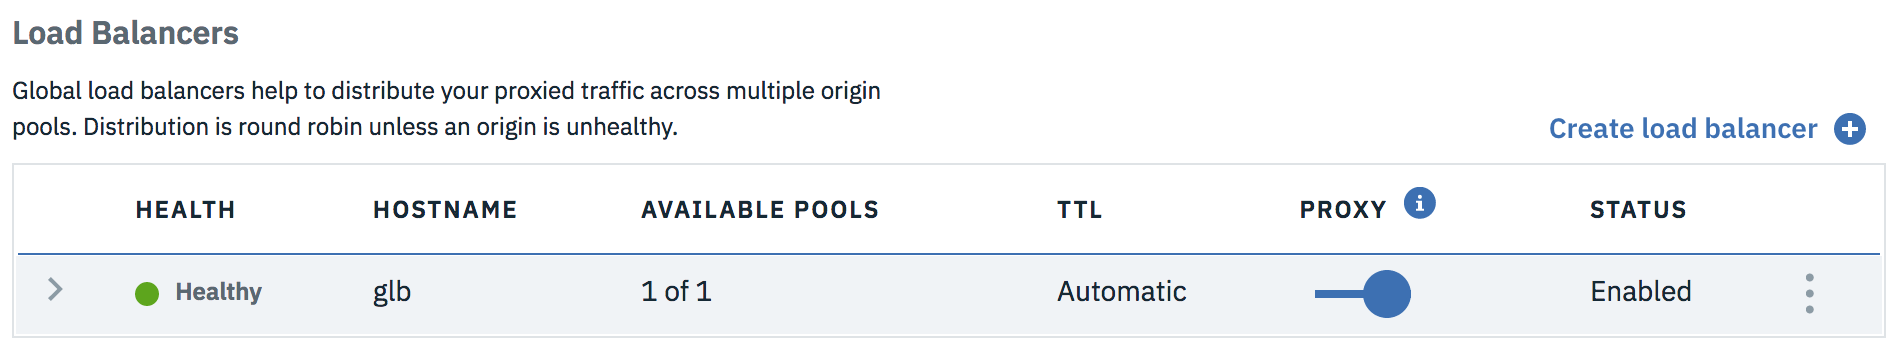
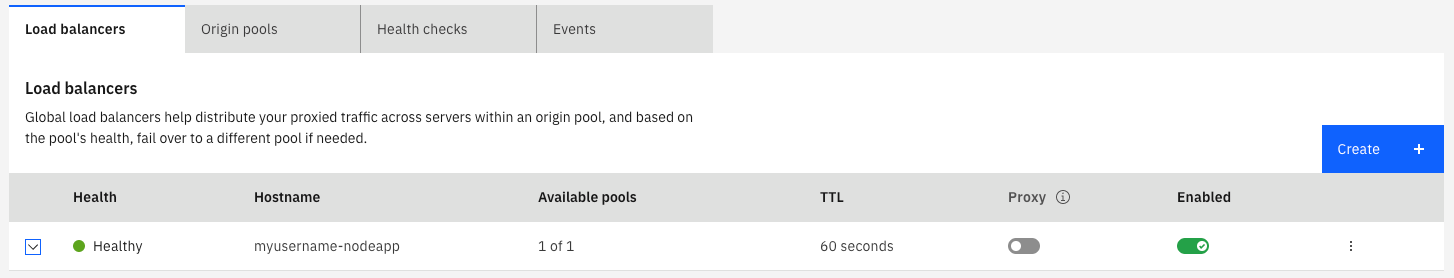
2020 fall review - 1

diff --git a/multi-region-webapp.md b/multi-region-webapp.md
@@ -2,7 +2,7 @@
 subcollection: solution-tutorials
 copyright:
   years: 2017, 2019
-lastupdated: "2019-11-18"
+lastupdated: "2020-11-23"
 lasttested: "2019-05-20"
 
 content-type: tutorial
@@ -55,15 +55,20 @@ This tutorial involves an active/active scenario where two copies of the applica
 {: #multi-region-webapp-create}
 {: step}
 
-Start by creating a Node.js starter application that runs in a Cloud Foundry environment.
+Start by creating a **SDK for Node.js** starter application that runs in a Cloud Foundry environment.
 
 1. In the [**Catalog**](https://{DomainName}/catalog/), under the [**Compute**](https://{DomainName}/catalog?category=compute) category, select [**Cloud Foundry**](https://{DomainName}/cloudfoundry/overview), Select [**Public Applications**](https://{DomainName}/catalog/starters/cloud-foundry?runtime=sdk-for-nodejs) and choose the **{{site.data.keyword.runtime_nodejs_notm}}** runtime.
-3. Enter a **unique name** for your application, which will also be your host name, for example: myusername-nodeapp. And click **Create**.
-4.  After the application starts, click the **Visit URL** link on the **Overview** page to see your application in a new tab.
+3. Verify **SDK for Node.js** is checked.
+3. **Select a region**.  **Dallas**, us-south, is expected for the text below but any region will work if you make the appropriate substitutions.
+3. Enter a **unique name** for your application. Notice host name filled identically. for example: myusername-nodeapp.
+3. Take note of the IBM **Domain** selected.  The default for  the **Dallas** region is **us-south.cf.appdomain.cloud**.
+3. Select a **Organization** and **Space**.  The space will be named after the region: **myaccount-org** (Organization) / **us-south** (Space).  A second space will be needed in a future step.
+3. And click **Create**.
+4. After the application starts, click the **Visit URL** link on the **Overview** page to see your application in a new tab.
 
 ![HelloWorld](images/solution1/HelloWorld.png)
 
-Great start! You have your very own Node.js starter application running in {{site.data.keyword.Bluemix_notm}}.
+Great start! You have your very own Node.js starter application running in {{site.data.keyword.Bluemix_notm}}
 
 Next, let's push the source code of your application to a repository and deploy your changes automatically.
 
@@ -73,12 +78,10 @@ Next, let's push the source code of your application to a repository and deploy 
 
 In this step, you set up a git source control repository to store your code and then create a pipeline, which deploys any code changes automatically.
 
-1. On the left pane of your application you just created, select **Overview** and scroll to find **{{site.data.keyword.contdelivery_short}}**. Click **Enable**.
-
-   ![HelloWorld](images/solution1/Enable_Continuous_Delivery.png)
-2. Keep the default options and click **Create**. You should now have a default **toolchain** created.
-
-   ![HelloWorld](images/solution1/DevOps_Toolchain.png)
+1. On the left pane of your application you just created, select **Overview** and scroll to find **{{site.data.keyword.contdelivery_short}}**. Click **Enable Continuous Delivery**.
+2. Keep the default options in the **Git Repos and Issue Tracking** panel.
+3. Click the **Delivery Pipeline** panel and choose **New** to create a API key with full access and click **OK** or follow the instructions to create or use a specific API key.
+3. Click **Create**. You should now have a default **toolchain** created.
 3. Select the **Git** tile under **Code**. You're then directed to your git repository page.
 4. If you haven't set up SSH keys yet, you should see a notification bar at the top with instructions. Follow the steps by opening the **add an SSH key** link in a new tab or if you want to use HTTPS instead of SSH, follow the steps by clicking  **create a personal access token**. Remember to save the key or token for future reference.
 5. Select SSH or HTTPS and copy the git URL. Clone the source to your local machine.
@@ -103,7 +106,7 @@ In this step, you set up a git source control repository to store your code and 
 10. Confirm that you see the **BUILD** and **DEPLOY** stages.
   ![HelloWorld](images/solution1/DevOps_Pipeline.png)
 11. Wait for the **DEPLOY** stage to complete.
-12. Click the application **url** under Last Execution result to view your changes live.
+12. Click the **View console** to open the application under **Last execution result** to visit the application.  In the Cloud Foundry application click on **Visit app URL** to see the app and changes.
 
 Continue making further changes to your application and periodically commit your changes to your git repository. If you don't see your application updating, check the logs of the DEPLOY and BUILD stages of your pipeline.
 
@@ -116,16 +119,31 @@ Next, we will deploy the same application to a different {{site.data.keyword.Blu
 1. Navigate to Application **Overview** and scroll to find **View toolchain**.
 2. Select **Delivery Pipeline** from Deliver.
 3. Click the **Gear icon** on the **DEPLOY** stage and select **Clone Stage**.
-   ![HelloWorld](images/solution1/CloneStage.png)
 4. Rename stage to "Deploy to UK" and select **JOBS**.
-5. Change **IBM Cloud region** to **London - https://api.eu-gb.bluemix.net**. Create a **space** if you don't have one.
+5. Change **IBM Cloud region** to **London - https://api.eu-gb.cf.cloud.ibm.com**. Create a **space** named eu-gb if you don't have one.
 7. Click **Save** and run the new stage by clicking the **Play button**.
+7. Navigate via **View console** to see the application and **Visit app URL**.  The **Details** tab of the application will provide a rouote in the format <hostname>.<domain>.  Verify your two applications look something like this:
+
+You can edit the routes to have similar domains from the application page by using the **Actions > Edit routes**.  Make note of this information in a table like the following.
+
+
+|Host name|Domain|Organization|Space|
+|--|--|--|--|
+|myusername-nodeapp|us-south.cf.appdomain.cloud|myaccount-org|us-south|
+|myusername-nodeapp|eu-gb.mybluemix.net|myaccount-org|eu-gb|
+
+The **Host name** is the initial part of the DNS subdomain shown on the **Details** panel under the **Routes** section.  Verify you can visit each applications in the browser using `<Host name>.<Domain>`: https://myusername-nodeapp.us-south.cf.appdomain.cloud,  https://myusername-nodeapp.eu-gb.mybluemix.net
+When you see the contents of this table used your values.
+  
+
+The host name will default to the application name but if that does not provide a unique route to the application a more random string will be generated and must be noted in your copy of the table above.
+{:tip}
 
 ## Register a custom domain with {{site.data.keyword.cis_full_notm}}
 {: #multi-region-webapp-domain_cis}
 {: step}
 
-[{{site.data.keyword.cis_full_notm}}](https://{DomainName}/docs/cis?topic=cis-getting-started) is a uniform platform to configure and manage the Domain Name System (DNS), Global Load Balancing (GLB), Web Application Firewall (WAF), and protection against Distributed Denial of Service (DDoS) for web applications. It provides a fast, highly performant, reliable, and secure internet service for customers running their business on IBM Cloud with three main capabilities to enhance your workflow: security, reliability, and performance.
+[{{site.data.keyword.cis_full_notm}}](https://{DomainName}/docs/cis?topic=cis-getting-started) is a simple set of edge network services for clients looking to secure their internet-facing applications from DDoS attacks, data theft and bot attacks, and for those clients needing to optimize their web applications, or ensure global responsiveness and the ongoing availability of their internet-facing applications.
 
 When deploying a real world application, you will likely want to use your own domain instead of the IBM-provided domain (_mybluemix.net_). In this step, after you have a custom domain, you can use the DNS servers provided by {{site.data.keyword.cis_full_notm}}.
 
@@ -144,35 +162,51 @@ When deploying a real world application, you will likely want to use your own do
 
 {: #add_glb}
 
-In this section, you will use the Global Load Balancer (GLB) in {{site.data.keyword.cis_full_notm}} to manage the traffic across multiple locations. The GLB utilizes a origin pool which allows for the traffic to be distributed to multiple origins.
+In this section, you will use the Global Load Balancer (GLB) in {{site.data.keyword.cis_full_notm}} to manage the traffic across multiple locations. The GLB utilizes a origin pool which allows for the traffic to be distributed to multiple origins based on health checks.
 
-### Before creating a GLB, create a health check for the GLB.
+### Create a health check for the GLB.
 {: #multi-region-webapp-6}
 
-1. In the {{site.data.keyword.cis_full_notm}} application, navigate to **Reliability** > **Global Load Balancer**, and at the bottom of the page, click **Create health check**.
-2. Enter the path that you want to monitor, for example, `/`, and select a type (HTTP or HTTPS). Typically you can create a dedicated health endpoint. Click **Provision 1 Resource**.
-   ![Health Check](images/solution1/health_check.png)
+1. In the {{site.data.keyword.cis_full_notm}} application, navigate to **Reliability** > **Global Load Balancer**.
+1. Select **Health checks** and click **Create**.
+2. Enter a name, HTTPS, `/` for the path.  In your real application you can create a dedicated health endpoint that evaluates the application health and returns the status. Click **Create**.
 
-### After that, create an origin pool with two origins.
+### Create an origin pool with two origins.
 {: #multi-region-webapp-7}
 
-1. Click **Create Pool**.
-2. Enter a name for the pool, select the health check that you've just created, and a region that is close to the location of your node.js application.
-3. Enter a name for the first origin and the host name for the application in Dallas `<your_app>.mybluemix.net`.
-4. Similarly, add another origin with the origin address pointing to the application in London `<your_app>.eu-gb.mybluemix.net`.
-5. Click **Provision 1 Resource**.
+The two applications look something like this:
+
+|Host name|Domain|Organization|Space|
+|--|--|--|--|
+|myusername-nodeapp|us-south.cf.appdomain.cloud|myaccount-org|us-south|
+|myusername-nodeapp|eu-gb.mybluemix.net|myaccount-org|eu-gb|
+
+
+1. Select **Origin pools** and click **Create**.
+2. Enter a name for the pool: myusername-nodeapp.
+3. Enter a name for the first origin, **us-south**, and the full subdomain of the application in Dallas: `<myusername-nodeapp>.us-south.cf.appdomain.cloud`.
+4. Similarly, add another origin, **eu-gb**,  with the full subdomain of the application in London: `<myusername-nodeapp>.eu-gb.mybluemix.net`.
+4. Select a **Health check region** close to the location of one of your applications.
+4. Select the **Health check** created earlier.
+5. Click **Save**.
    ![Origin Pool](images/solution1/origin_pool.png)
+
+You may need to wait for the health checks to complete and refresh in the browser to see a Healthy status.
+{:tip}
 
 ### Create a Global Load Balancer (GLB).
 {: #multi-region-webapp-8}
 
-1. Click **Create Load Balancer**.
-2. Enter a name for the Global Load Balancer. This name will also be part of your universal application URL (`http://<glb_name>.<your_domain_name>`), regardless of the location.
-3. Click **Add pool** and select the origin pool that you have just created.
-4. Click **Provision 1 Resource**.
+1. Select **Load balancers** and click **Create**.
+1. Keep the defaults of **Enable**: **On** and **Proxy**: **Off**.
+2. Enter the name for the Global Load Balancer, **myusername-nodeapp**, (`<glb_name>`) this name will be the initial characters in the subdomain to access the application. (`http://myusername-nodeapp.<your_domain_name>`).  From this one URL both the origins will be accessed optimally.
+3. Click **Add route**.
+3. Select the **Region**: **Default**.
+3. Select the origin pool that you just created.
+4. Click **Create**.
    ![Global Load Balancer](images/solution1/load_balancer.png)
 
-At this stage, the GLB is configured but the Cloud Foundry applications are not ready yet to reply to requests from the configured GLB domain name. To complete the configuration, you will update the applications with routes using the custom domain.
+The applications (.i.e origins) can not yet be reached.  The health checks for the origin subdomains, like `myusername-nodeapp.us-south.cf.appdomain.cloud`, are healthy. The GLB is resolving `myusername-nodeapp.<your_domain_name>` to the IP addresses of one of the Cloud Foundry regions (us-south or eu-gb) in your account based on health. However, when Cloud Foundry receives the request it does not know how to route it to an application.  Cloud Foundry **routes** need to be created to map the subdomain, `myusername-nodeapp.<your_domain_name>`, to the application.  Next step will fix this in each region.
 
 ## Configure custom domain and routes to your application
 {: #multi-region-webapp-9}
@@ -180,24 +214,36 @@ At this stage, the GLB is configured but the Cloud Foundry applications are not 
 
 {: #add_domain}
 
+|Host name|Domain|Organization|Space|
+|--|--|--|--|
+|myusername-nodeapp|us-south.cf.appdomain.cloud|myaccount-org|us-south|
+|myusername-nodeapp|eu-gb.mybluemix.net|myaccount-org|eu-gb|
+
 In this step, you will map the custom domain name to the secure endpoint for the {{site.data.keyword.Bluemix_notm}} location where your application is running.
 
 1. From the menu bar, click on **Manage** and then **Account**: [Account](https://{DomainName}/account).
-2. On the account page, navigate to application **Cloud Foundry Orgs**, and select **Domains** from the Actions column of the organization where you deployed the application.
-3. Click **Add a domain** and enter your custom domain name acquired from the registrar.
-4. Select the right location and click **Add**.
-5. Similarly, add the custom domain name to London.
-6. Return to the {{site.data.keyword.Bluemix_notm}} [Resource List](https://{DomainName}/resources), navigate to **Cloud Foundry Apps** and click on the application in Dallas, click **Routes** > **Edit Routes**, and click **Add Route**.
-   ![Add a route](images/solution1/ApplicationRoutes.png)
-7. Enter the GLB hostname you configured earlier in the **Enter host (optional)** field, and select the custom domain that you have just added. Click **Save**.
-8. Similarly, configure the domain and routes for the application in London.
+2. On the account page, navigate to **Cloud Foundry Orgs**, select your organization: **myaccount-org**.
+2. Select the **Domains** panel.
+3. Add domain in the region of the first application, us-south. Click **Add a domain**.
+   1. Enter the **Domain name**: <your_domain_name> - the custom domain name acquired from the registrar.
+   2. Select **US-South** and click **Add**.
+6. Return to the {{site.data.keyword.Bluemix_notm}} [Resource List](https://{DomainName}/resources), navigate to **Cloud Foundry Apps** and click on the application in Dallas.
+   1. Click **Actions...** > **Edit Routes**.
+   1. Notice the existing route, `<myusername-nodeapp>` . `<us-south.cf.appdomain.com>` (keep this route for health checks).
+   1. Click **Add Route**.
+   1. Enter the GLB hostname you configured earlier, `<glb_name>`, in the **Enter host (optional)** field.
+   1. Select the custom domain, `<your_domain_name>`, Click **Save**.
+8. Similarly, configure the domain and route for the application in London.
 
-At this point, you can visit your application with the URL `<glb_name>.<your_domain_name>` and the Global Load Balancer automatically distributes traffic for your multi-location applications. You can verify this by stopping your application in Dallas, keeping application in London active, and accessing the application through the Global Load Balancer.
+HTTPS access will not work correctly.  This will be fixed in the step below:  **Bind SSL certificate to your application**
+{:tip}
+
+At this point, you can visit your application with the URL http://`<glb_name>.<your_domain_name>` and the Global Load Balancer automatically distributes traffic for your multi-location applications. You can verify this by stopping your application in Dallas, keeping application in London active, and accessing the application through the Global Load Balancer.
 
 Although this works at this moment, as we have configured continuous delivery in the previous steps, the configuration can be overwritten when another build is triggered. To make these changes persistent, go back to the toolchains and modify the *manifest.yml* file:
 
 1. In the {{site.data.keyword.Bluemix_notm}} [Resource List](https://{DomainName}/resources), navigate to **Cloud Foundry Apps** and click on the application in Dallas, navigate to Application **Overview** and scroll to find **View toolchain**.
-2. Select the Git tile under Code.
+2. Select the **Eclipse Orion Web IDE** tile under Code.
 3. Select *manifest.yml*.
 4. Click **Edit** and add custom routes.
    ```yaml
@@ -207,7 +253,7 @@ Although this works at this moment, as we have configured continuous delivery in
 	  memory: 256M
 	  instances: 1
 	  routes:
-	  - route: <your_app>.mybluemix.net
+	  - route: <myusername-nodeapp>.<us-south.cf.appdomain.cloud>
 	  - route: <glb_name>.<your_domain_name>
 	  disk_quota: 1024M
    ```
@@ -223,7 +269,7 @@ For the application deployed in London, use a separate manifest to configure the
 	  memory: 256M
 	  instances: 1
 	  routes:
-	  - route: <your_app>.eu-gb.mybluemix.net
+	  - route: <myusername-nodeapp>.<eu-gb.mybluemix.net>
 	  - route: <glb_name>.<your_domain_name>
 	  disk_quota: 1024M
    ```
@@ -233,6 +279,7 @@ For the application deployed in London, use a separate manifest to configure the
    #!/bin/bash
    cf push "${CF_APP}" -f eu-gb.manifest.yml
    ```
+
 
 Finally commit the changes to the manifest files and make sure the builds for both locations succeed.
 
@@ -255,7 +302,7 @@ When using another default domain than `mybluemix.net` such as `cf.appdomain.clo
 
 If you are using a different DNS provider, the steps for setting up the CNAME record vary depending on your DNS provider.
 
-For your Cloud Foundry applications to be reachable through the custom domain, you will need to add the custom domain to the [list of domains in the Cloud Foundry organization where the applications are deployed](https://{DomainName}/docs/cloud-foundry-public?topic=cloud-foundry-public-custom-domains#mapcustomdomain). Once done you can add the routes to the application manifests:
+For your Cloud Foundry applications to be reachable through the custom domain, you will need to add the custom domain to the [list of domains in the Cloud Foundry organization where the applications are deployed](https://{DomainName}/docs/cloud-foundry-public?topic=cloud-foundry-public-custom-domains#mapcustomdomain). Once done you can add the routes to the application manifests.  For the application in us-south:
 
    ```
    applications:
@@ -264,8 +311,8 @@ For your Cloud Foundry applications to be reachable through the custom domain, y
 	  memory: 256M
 	  instances: 1
 	  routes:
-	  - route: <your_app>.mybluemix.net
-	  - route: <your_app>.<your_domain_name>
+	  - route: <myusername-nodeapp>.<us-south.cf.appdomain.cloud>
+	  - route: <your_subdomain>.<your_domain_name>
 	  disk_quota: 1024M
    ```
    {: pre}
@@ -278,18 +325,6 @@ For your Cloud Foundry applications to be reachable through the custom domain, y
 2. Navigate to Application **Overview** > **Routes** > **Manage Domains**.
 3. Click the SSL Certificate upload button and upload the certificate.
 4. Access your application with https instead of http.
-
-## Monitor application performance
-{: #multi-region-webapp-monitor}
-{: step}
-
-Lets check the health of your multi-location application.
-
-1. In the application dashboard, select **Monitoring**.
-2. Click **View All Tests**
-   ![](images/solution1/alert_frequency.png)
-
-Availability Monitoring runs synthetic tests from locations around the world, around the clock to proactively detect and fix performance issues before users are impacted. If you configured a custom route for your application, change the test definition to access your application through its custom domain.
 
 ## Remove resources
 {: #multi-region-webapp-13}
